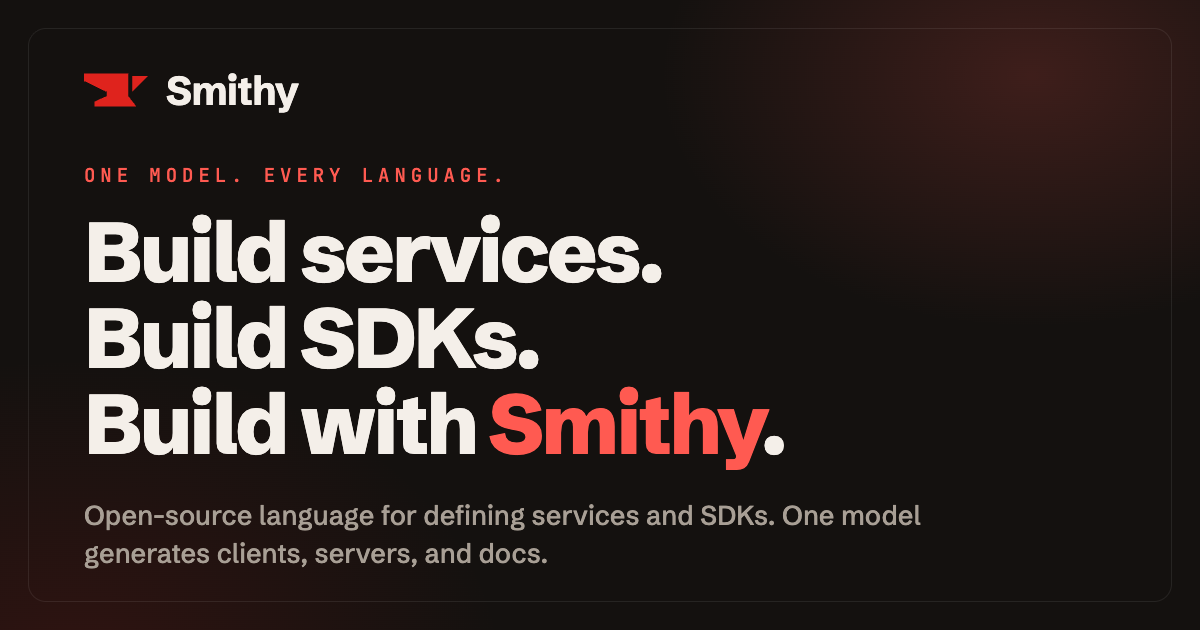
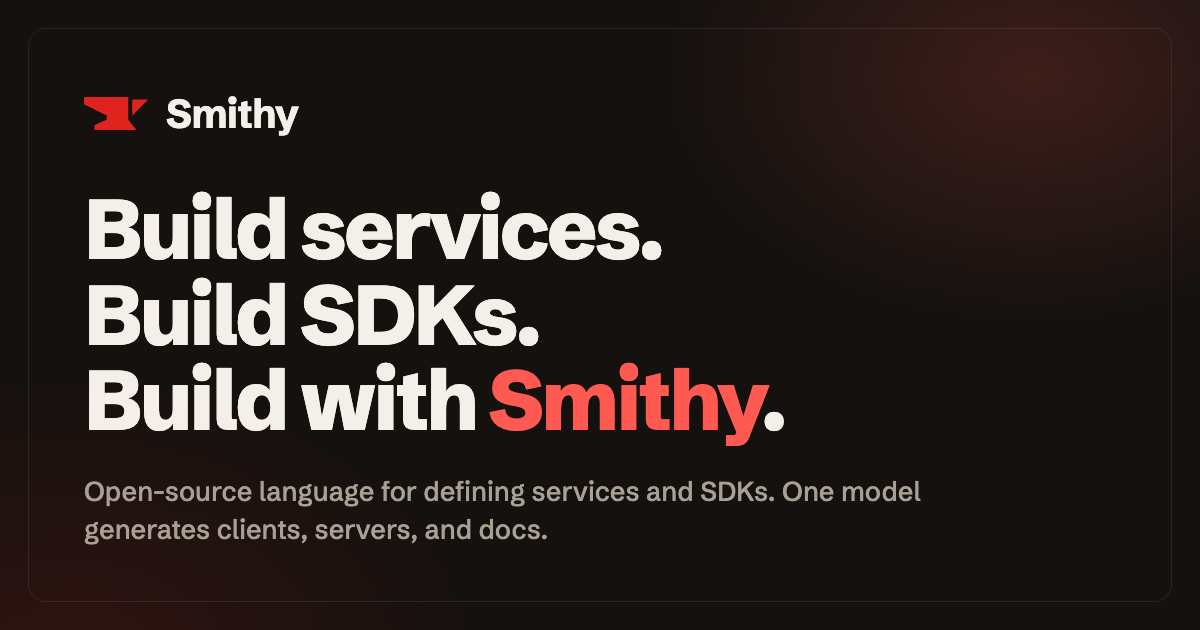
Align Open Graph image with the page
Remove the "One model. Every language." eyebrow from the share card so
it matches the landing page, which dropped that line, and regenerate
assets/og-cover.png.

Drop the docs/landing/.gitignore that listed local-only scratch
directories; those are excluded locally instead so the published tree
carries no reference to them.

Changed region(s): [[0.0617, 0.2714, 0.7708, 0.9048], [0.0617, 0.0905, 0.2467, 0.2111]]

diff --git a/docs/landing/og-cover-source.html b/docs/landing/og-cover-source.html
@@ -32,11 +32,6 @@
   .brand { display: flex; align-items: center; gap: 18px; margin-bottom: 40px; }
   .brand img { width: 64px; height: 64px; display: block; }
   .brand .name { font-size: 40px; font-weight: 700; letter-spacing: -.02em; }
-  .eyebrow {
-    font-family: "JetBrains Mono", monospace;
-    font-size: 19px; font-weight: 500; letter-spacing: .26em;
-    text-transform: uppercase; color: #ff5a51; margin-bottom: 22px;
-  }
   h1 {
     font-size: 84px; font-weight: 800; line-height: 1.02; letter-spacing: -.035em;
   }
@@ -54,7 +49,6 @@
       <img src="assets/smithy-anvil.svg" alt="">
       <span class="name">Smithy</span>
     </div>
-    <div class="eyebrow">One model. Every language.</div>
     <h1>Build services.<br>Build SDKs.<br>Build with <span class="hl">Smithy</span>.</h1>
     <div class="sub">Open-source language for defining services and SDKs. One model generates clients, servers, and docs.</div>
   </div>